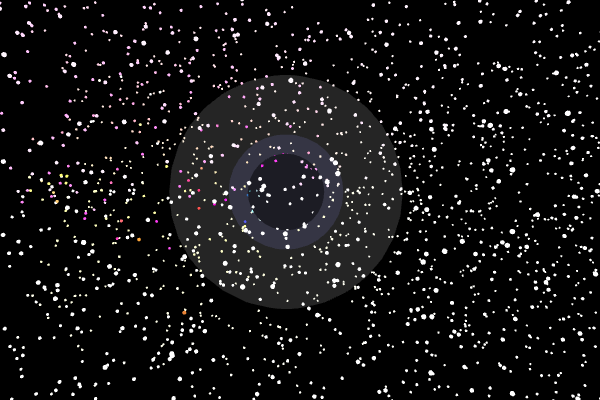
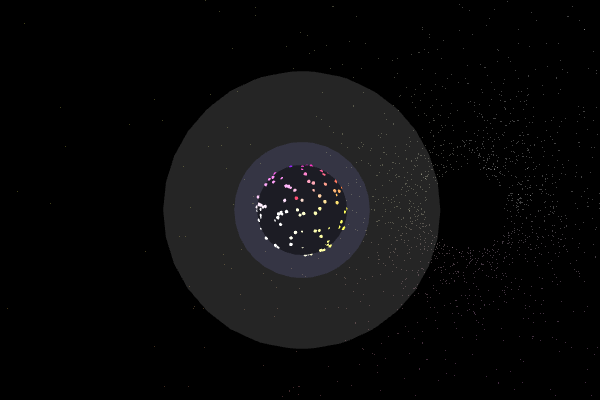
new image and less particles

diff --git a/sketches/blackhole/sketch.js b/sketches/blackhole/sketch.js
@@ -44,7 +44,7 @@ let c = 30;
 let G = 6;
 let dt = 0.2;
 
-let pCount = 3500;
+let pCount = 3000;
 
 let m87;
 
@@ -65,6 +65,7 @@ function setup() {
     let gui = new dat.GUI({
                           width: 200
                           });
+    gui.close();
     gui.add(controls, 'type', ['Cylinder', 'Disk', 'Spiral', 'Flat-Square', 'Flat-Disk', 'Straight-Line']).name("Type");
     gui.add(controls, 'Reset');
     //gui.add(controls, 'c', 1, 60).step(1);
